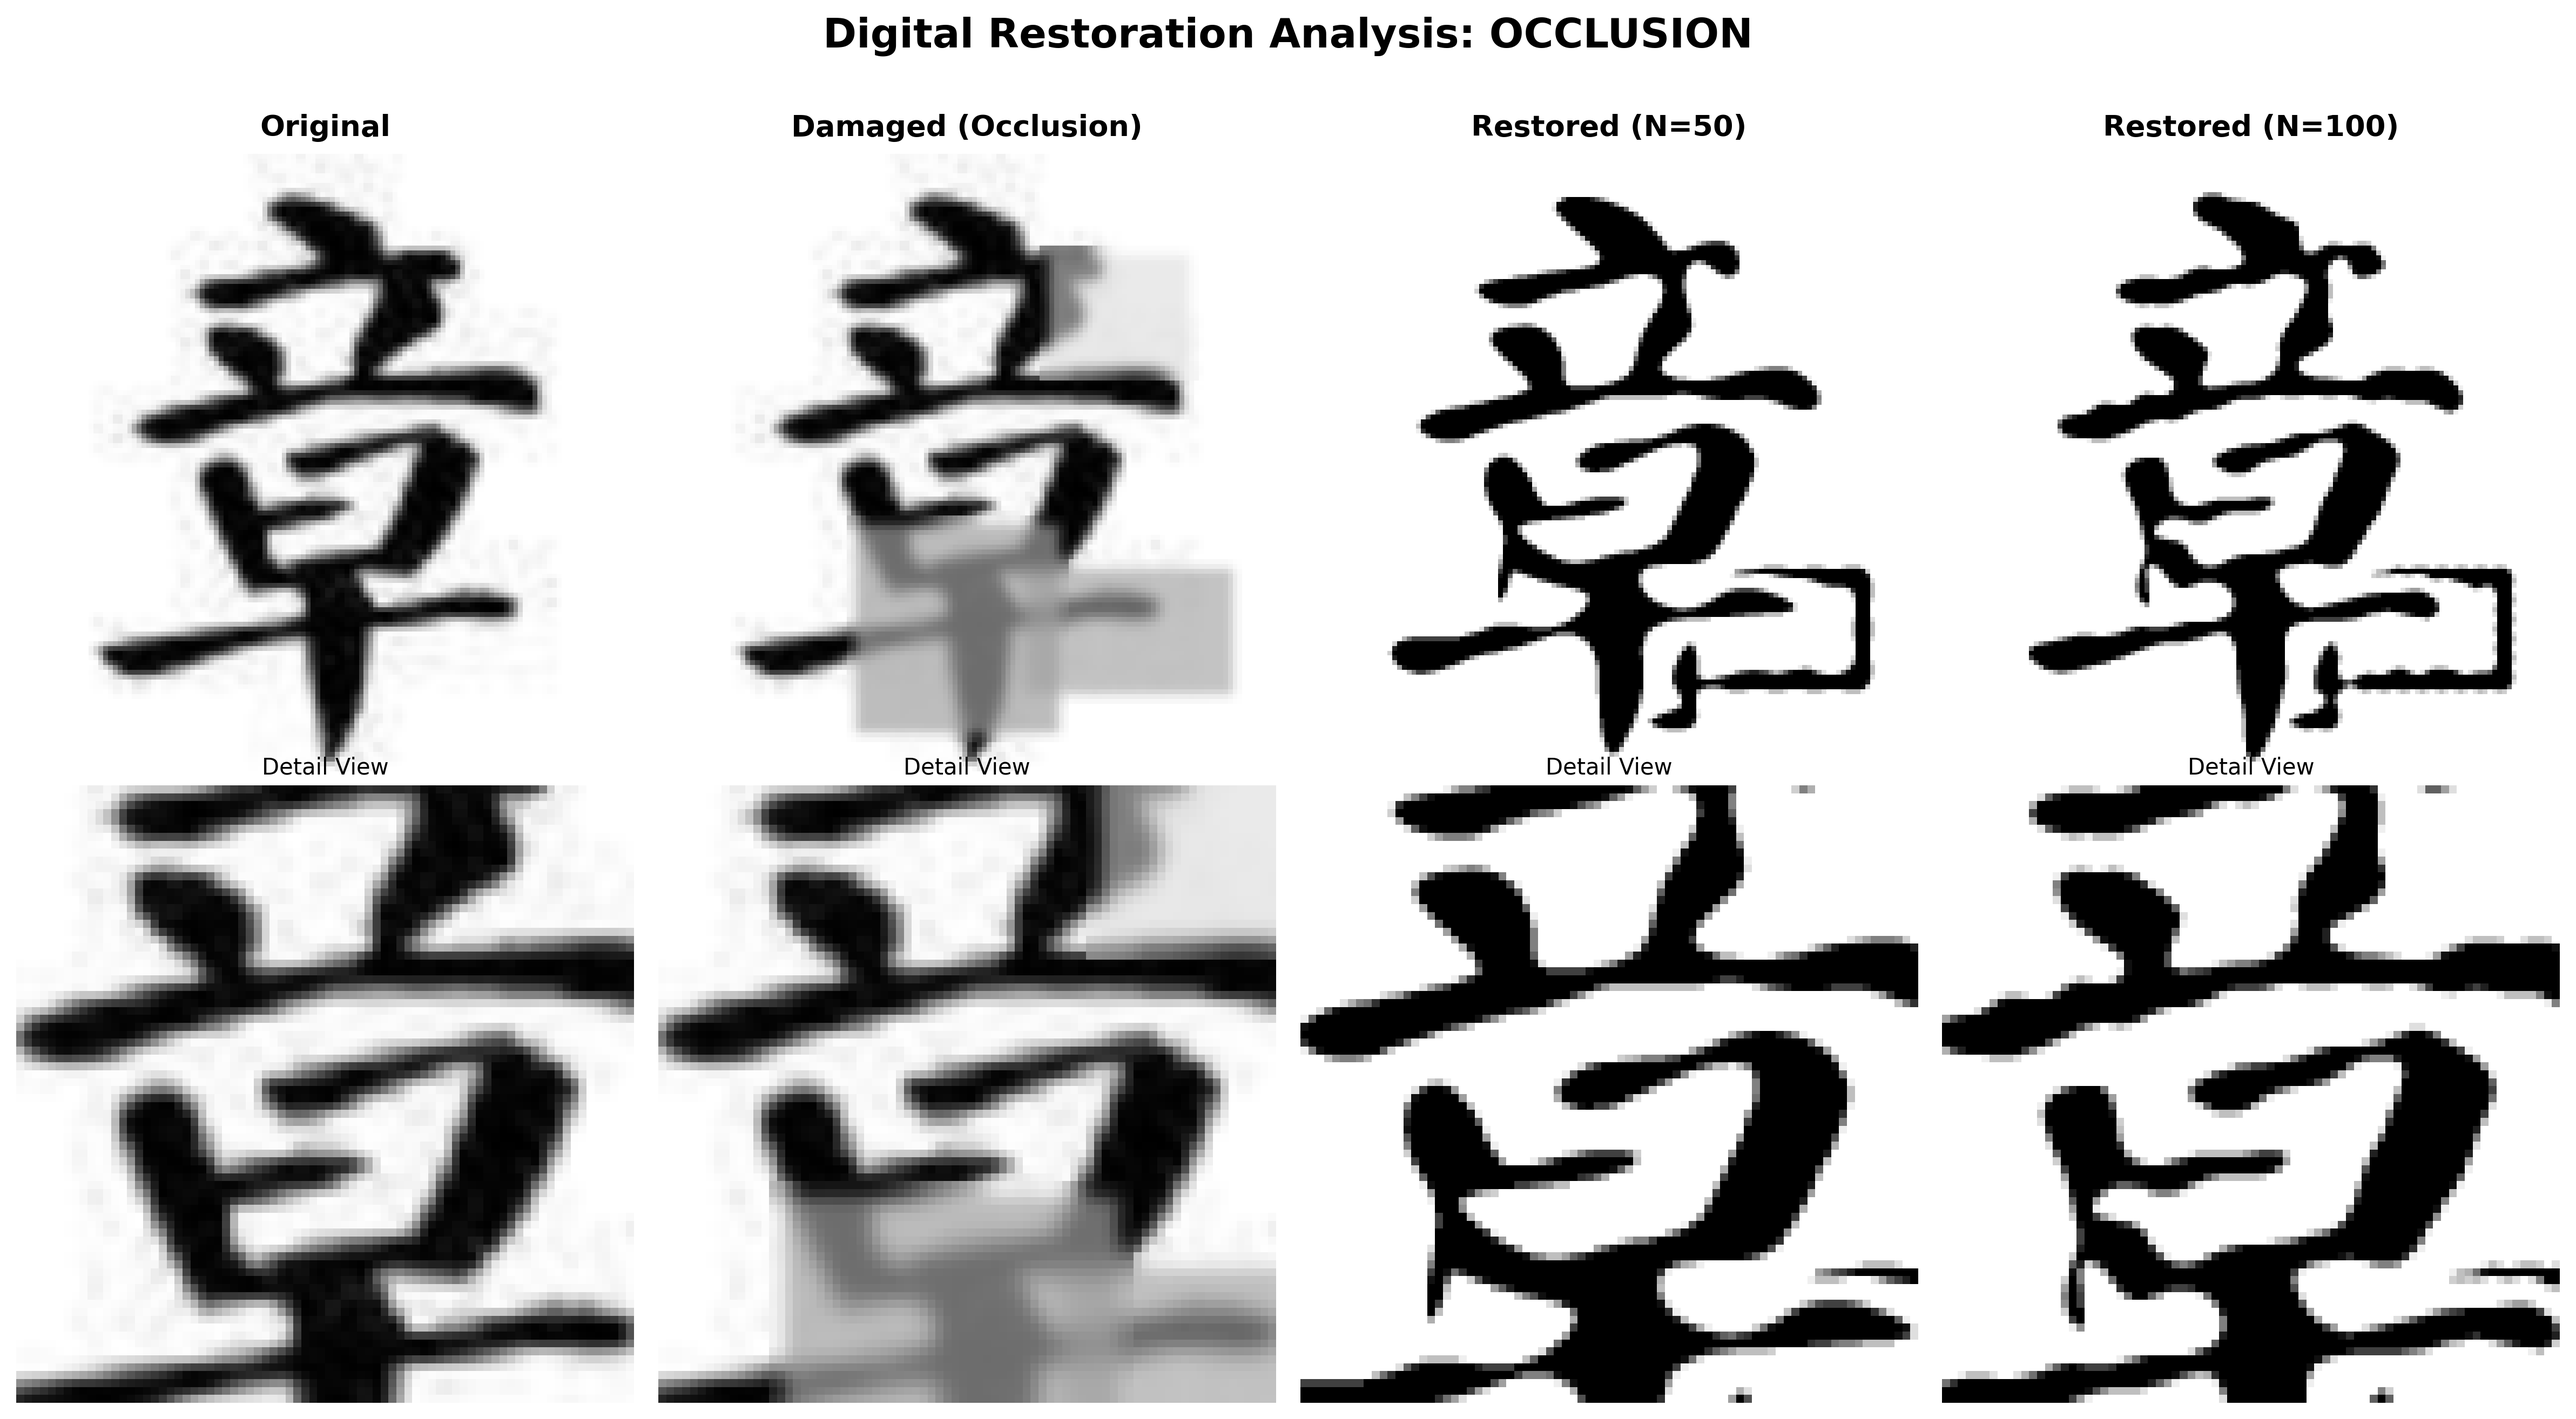
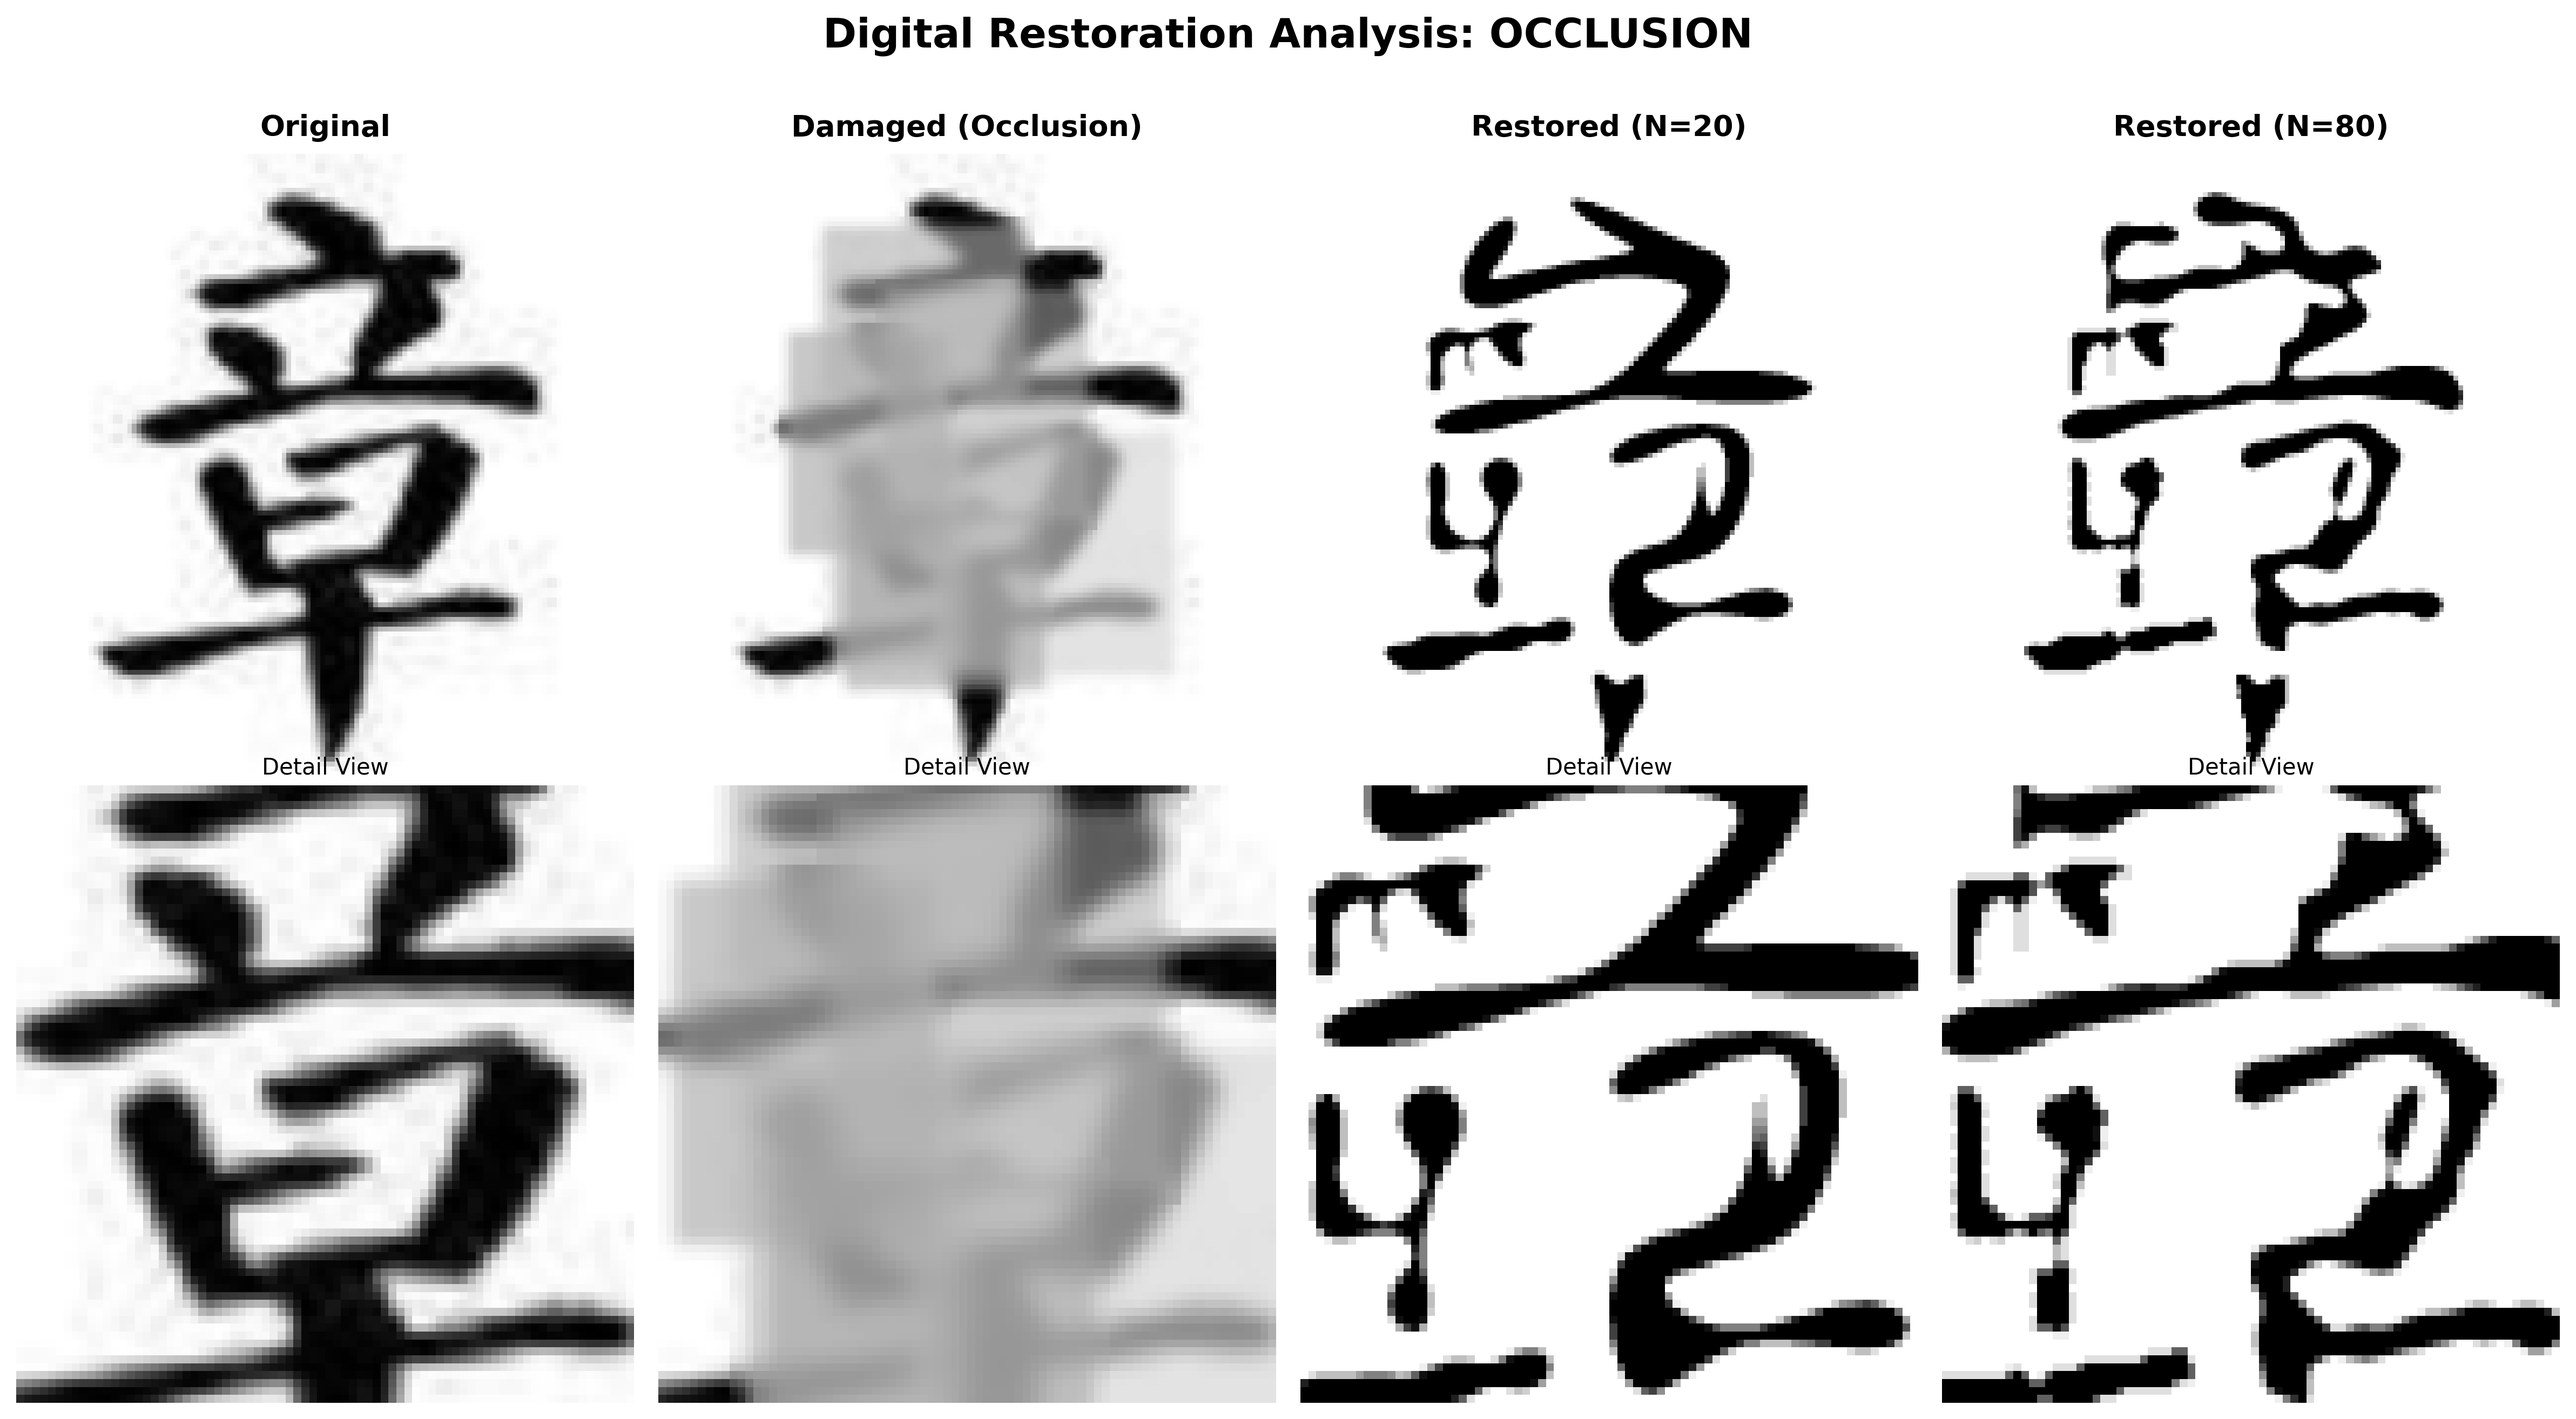
加大 occlusion 覆蓋面積並改用 N=20/80 拉大修復對比
- Occlusion 方塊數量增至 4/6/9，尺寸加大至 20~45%，覆蓋 50%+ 畫面
- 修復對比從 N=50/100 改為 N=20/80，差異更明顯：
  N=20 僅保留低頻輪廓，N=80 保留更多筆畫細節

Changed region(s): [[0.2499, 0.1248, 0.9996, 0.9981], [0.8122, 0.0624, 0.9371, 0.0936]]

diff --git a/modules/restoration_demo.py b/modules/restoration_demo.py
@@ -30,9 +30,9 @@ def add_damage(image, damage_type="noise", intensity=0.3, severity="medium"):
     
     # 定义三级强度映射
     severity_params = {
-        'light': {'noise_ratio': 0.08, 'erosion_kernel': 3, 'occlusion_count': 2},
-        'medium': {'noise_ratio': 0.15, 'erosion_kernel': 4, 'occlusion_count': 3},
-        'heavy': {'noise_ratio': 0.25, 'erosion_kernel': 5, 'occlusion_count': 5}
+        'light': {'noise_ratio': 0.08, 'erosion_kernel': 3, 'occlusion_count': 4},
+        'medium': {'noise_ratio': 0.15, 'erosion_kernel': 4, 'occlusion_count': 6},
+        'heavy': {'noise_ratio': 0.25, 'erosion_kernel': 5, 'occlusion_count': 9}
     }
     params = severity_params.get(severity, severity_params['medium'])
 
@@ -62,8 +62,8 @@ def add_damage(image, damage_type="noise", intensity=0.3, severity="medium"):
         num_occlusions = params['occlusion_count']
 
         for _ in range(num_occlusions):
-            box_w = np.random.randint(int(w * 0.15), int(w * 0.35))
-            box_h = np.random.randint(int(h * 0.15), int(h * 0.35))
+            box_w = np.random.randint(int(w * 0.20), int(w * 0.45))
+            box_h = np.random.randint(int(h * 0.20), int(h * 0.45))
 
             if h > box_h and w > box_w:
                 y = np.random.randint(0, h - box_h)
@@ -171,9 +171,9 @@ def create_comparison_report(img_path, damage_type="noise", intensity=0.3, sever
     original = cv2.resize(original, (IMG_SIZE, IMG_SIZE))
     damaged = add_damage(original, damage_type, intensity, severity)
 
-    # 測試兩種係數級距
-    res_low = restore_with_magic(damaged, n_coeffs=50)
-    res_high = restore_with_magic(damaged, n_coeffs=100)
+    # 測試兩種係數級距：N=20 平滑但丟細節，N=80 保留更多筆畫特徵
+    res_low = restore_with_magic(damaged, n_coeffs=20)
+    res_high = restore_with_magic(damaged, n_coeffs=80)
 
     fig, axes = plt.subplots(2, 4, figsize=(16, 9))
     imgs = [original, damaged, res_low, res_high]
@@ -188,8 +188,8 @@ def create_comparison_report(img_path, damage_type="noise", intensity=0.3, sever
     titles = [
         "Original",
         f"Damaged ({damage_display})",
-        "Restored (N=50)",
-        "Restored (N=100)"
+        "Restored (N=20)",
+        "Restored (N=80)"
     ]
 
     # 上排：完整圖片
